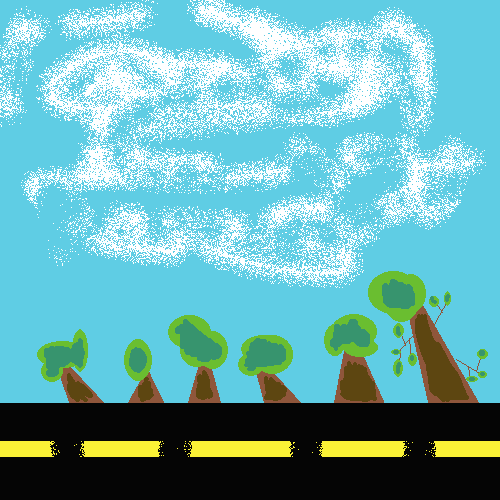
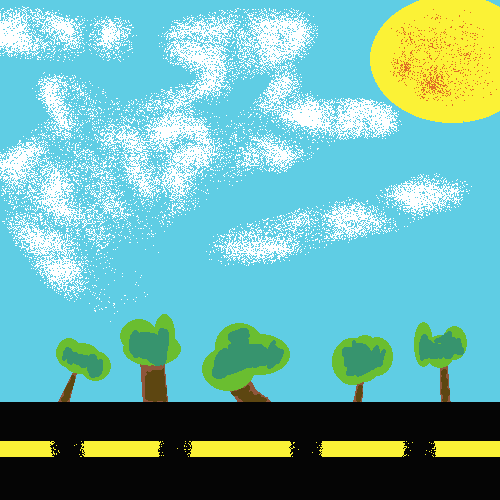
Move background

diff --git a/movement.py b/movement.py
@@ -28,14 +28,23 @@ except:
 pygame.init()
 
 # Create the display surface object of specific dimensions 
-win = pygame.display.set_mode((500, 500))
+screen_width = 500
+screen_height = 500
+win = pygame.display.set_mode((screen_width, screen_height))
 
 # Set the Pygame window name
 pygame.display.set_caption("Ramjam")
 
 # Load and transform the background image 1
 #background_1 = os.path.abspath("Background/Background.png")
-background_1 = "Background.png"
+background_1 = "Background1.png"
+background_2 = "Background2.png"
+background_3 = "Background3.png"
+background_4 = "Background4.png"
+# background_1 = os.path.abspath("Background/Background1.png")
+# background_2 = os.path.abspath("Background/Background2.png")
+# background_3 = os.path.abspath("Background/Background3.png")
+# background_4 = os.path.abspath("Background/Background4.png")
 
 # Variable to iterate over the background image
 iterator = 0    # Start at 0 and iterate along width of screen
@@ -84,15 +93,33 @@ def load_background(img_location, iterator):
         print(f"Error loading background image: {e}")
         sys.exit(1)
 
+    # Transform the background image
+    background_image = pygame.transform.scale(background_image, (screen_width, screen_height))
+
     win.blit(background_image, (iterator, 0))
 
-    # Load background
-    if iterator == -car_w:
-        win.blit(background_image, (car_w+iterator, 0))
+    win.blit(background_image, (screen_width+iterator, 0))
+    if iterator == -screen_width:
+        win.blit(background_image, (screen_width+iterator, 0))
+        iterator = 0
+    print(iterator)
+    iterator += 1
+
+def update_background(img_location, iterator):
+    try:
+        background_image = pygame.image.load(img_location)
+    except pygame.error as e:
+        print(f"Error loading background image: {e}")
+        sys.exit(1)
+
+    # Load background and iterate over it
+    #win.blit(background_image, (screen_width+iterator, 0))
+    win.blit(background_image, (screen_width+iterator, 0))
+    if iterator == -screen_width:
+        win.blit(background_image, (screen_width+iterator, 0))
         iterator = 0
 
-    iterator -= 1
-
+    #iterator -= 1
 
 # Load the car image
 car_image_trex = os.path.abspath("Character_Sprites/Bee_Car2.png")
@@ -134,11 +161,21 @@ timer = pygame.time.Clock()
 while not crashed:
     pygame.time.delay(10)
     # Clear the screen
-    win.fill((255, 255, 255))
+    win.fill((0, 0, 0))
 
-    
+    if iterator == 0:
+        img = background_1
+    elif iterator == 1:
+        img = background_2
+    elif iterator == 2:
+        img = background_3
+    elif iterator == 3:
+        img = background_4
+
     #win.blit(background_image, (iterator, 0))
-    iterator -= 1
+    load_background(img, iterator)
+    #update_background(background_1, iterator)
+    iterator-=1
 
     #Start the mic recording. (You can comment the next line out to ignore)
     micFunction(stream.read(CHUNK))
@@ -169,7 +206,7 @@ while not crashed:
 
 
     # If the car goes off the right side of the window, reset its position
-    if x > 600:
+    if x > screen_width + 50:
         x = 0 - car_rect.width
 
     # Store keys pressed
@@ -180,10 +217,10 @@ while not crashed:
         y -= current_vel
 
     # Move down
-    if keys[pygame.K_DOWN] and y < 600 - car_rect.height:
+    if keys[pygame.K_DOWN] and y < (screen_height + 100) - car_rect.height:
         y += current_vel
 
-    load_background(background_1, iterator)
+    #load_background(background_1, iterator)
 
     # Draw the car image at the updated position
     win.blit(car_image_object, (x, y))
